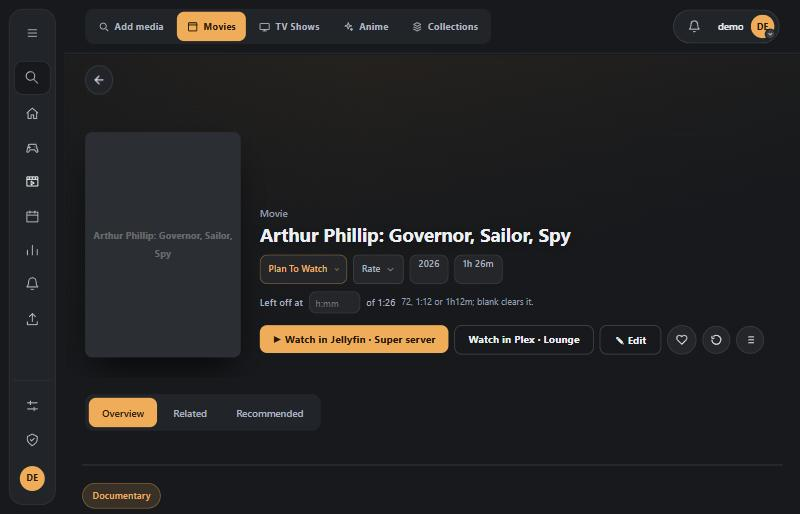
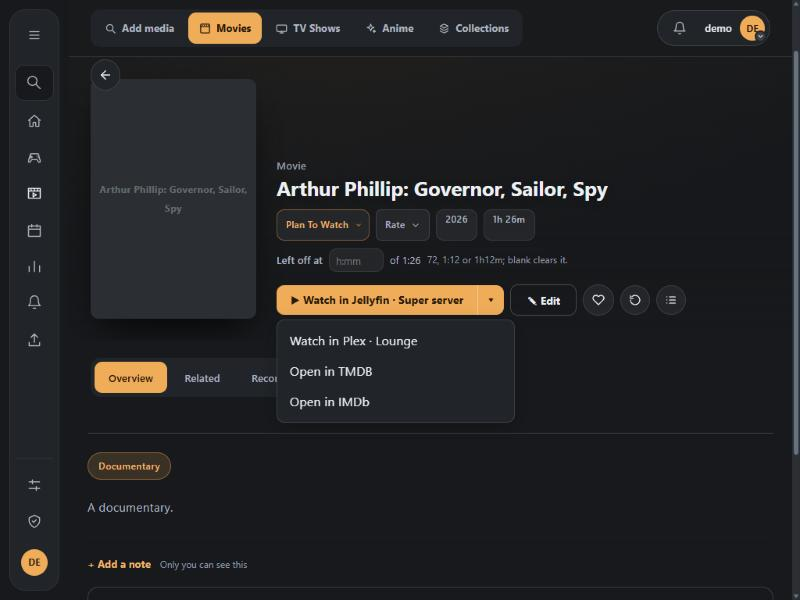
feat: list other watch sources and metadata-site links in a menu beside the watch button

diff --git a/src/frontend/src/components/MediaWatchLinks.vue b/src/frontend/src/components/MediaWatchLinks.vue
@@ -1,12 +1,32 @@
 <script setup lang="ts">
-import { ref, watch } from "vue";
+import { computed, onBeforeUnmount, ref, watch } from "vue";
 import type { MediaType } from "../services/mediaExtras";
 import { fetchWatchLinks, type WatchLink } from "../services/mediaWatchLinks";
+import { providerLinks } from "../utils/mediaProviderLinks";
 
-const props = defineProps<{ mediaType: MediaType; mediaId: string }>();
+const props = defineProps<{
+  mediaType: MediaType;
+  mediaId: string;
+  providerIds?: Record<string, string>;
+}>();
 const emit = defineEmits<{ present: [value: boolean] }>();
 
-const links = ref<WatchLink[]>([]);
+const watchSources = ref<WatchLink[]>([]);
+const sites = computed(() => providerLinks(props.mediaType, props.providerIds));
+// The main button is the first place the title can be watched; everything else is in the menu.
+const primary = computed(() => watchSources.value[0] ?? null);
+const menuItems = computed(() => [
+  ...watchSources.value.slice(1).map((link) => ({
+    id: `watch:${link.id}`,
+    text: `Watch in ${link.label}`,
+    url: link.url,
+  })),
+  ...sites.value.map((link) => ({
+    id: `open:${link.id}`,
+    text: `Open in ${link.label}`,
+    url: link.url,
+  })),
+]);
 
 // The links were saved by the library sync, so this is one cheap read; a failure just means no button.
 watch(
@@ -15,62 +35,179 @@ watch(
     const request = new AbortController();
     onCleanup(() => request.abort());
     try {
-      links.value = await fetchWatchLinks(
+      watchSources.value = await fetchWatchLinks(
         props.mediaType,
         props.mediaId,
         request.signal,
       );
     } catch {
-      links.value = [];
+      watchSources.value = [];
     }
-    emit("present", links.value.length > 0);
+    emit("present", watchSources.value.length > 0);
   },
   { immediate: true },
 );
+
+const menuOpen = ref(false);
+const root = ref<HTMLElement | null>(null);
+const menu = ref<HTMLElement | null>(null);
+const menuStyle = ref<Record<string, string>>({});
+
+// The menu is rendered in the page body so the hero banner cannot clip it.
+function placeMenu() {
+  const box = root.value?.getBoundingClientRect();
+  if (!box) return;
+  menuStyle.value = {
+    top: `${box.bottom + 6}px`,
+    left: `${box.left}px`,
+    minWidth: `${box.width}px`,
+  };
+}
+
+function close() {
+  menuOpen.value = false;
+}
+
+function closeOnOutside(event: Event) {
+  const inside = (node: HTMLElement | null) =>
+    node?.contains(event.target as Node) ?? false;
+  if (!inside(root.value) && !inside(menu.value)) close();
+}
+
+function closeOnEscape(event: Event) {
+  if ((event as KeyboardEvent).key === "Escape") close();
+}
+
+function listen(add: boolean) {
+  const method = add ? "addEventListener" : "removeEventListener";
+  document[method]("click", closeOnOutside);
+  document[method]("keydown", closeOnEscape);
+  window[method]("resize", close);
+  window[method]("scroll", close, true);
+}
+
+watch(menuOpen, (open) => {
+  if (open) placeMenu();
+  listen(open);
+});
+onBeforeUnmount(() => listen(false));
 </script>
 
 <template>
-  <div v-if="links.length" class="watch-links">
+  <div v-if="primary || menuItems.length" ref="root" class="watch-links">
     <a
-      v-for="(link, index) in links"
-      :key="link.id"
-      :class="index === 0 ? 'watch-main' : 'watch-other'"
-      :href="link.url"
+      v-if="primary"
+      class="watch-main"
+      :class="{ 'has-menu': menuItems.length }"
+      :href="primary.url"
       target="_blank"
       rel="noopener noreferrer"
     >
-      {{ index === 0 ? "▶ " : "" }}Watch in {{ link.label }}
+      ▶ Watch in {{ primary.label }}
     </a>
+    <button
+      v-if="menuItems.length"
+      type="button"
+      class="watch-toggle"
+      :class="{ alone: !primary }"
+      aria-haspopup="menu"
+      :aria-expanded="menuOpen"
+      :aria-label="primary ? 'More places to watch or open' : 'Open in'"
+      @click="menuOpen = !menuOpen"
+    >
+      {{ primary ? "▾" : "Open in ▾" }}
+    </button>
+    <Teleport to="body">
+      <ul
+        v-if="menuOpen"
+        ref="menu"
+        class="watch-menu"
+        role="menu"
+        :style="menuStyle"
+      >
+        <li v-for="item in menuItems" :key="item.id" role="none">
+          <a
+            role="menuitem"
+            :href="item.url"
+            target="_blank"
+            rel="noopener noreferrer"
+            @click="close"
+            >{{ item.text }}</a
+          >
+        </li>
+      </ul>
+    </Teleport>
   </div>
 </template>
 
 <style scoped>
 .watch-links {
   display: inline-flex;
-  flex-wrap: wrap;
-  gap: 8px;
 }
 .watch-main,
-.watch-other {
+.watch-toggle {
   display: inline-flex;
   align-items: center;
   height: 38px;
-  padding: 0 18px;
-  border-radius: var(--ui-radius-control);
+  border: 0;
+  font: inherit;
   font-size: 0.86rem;
   font-weight: 700;
   text-decoration: none;
   white-space: nowrap;
-}
-.watch-main {
+  cursor: pointer;
   background: var(--ui-accent);
   color: var(--ui-on-accent);
 }
-.watch-other {
-  color: var(--ui-text);
-  border: 1px solid color-mix(in srgb, var(--ui-text) 22%, transparent);
+.watch-main {
+  padding: 0 18px;
+  border-radius: var(--ui-radius-control);
 }
-.watch-other:hover {
-  border-color: color-mix(in srgb, var(--ui-accent) 55%, transparent);
+.watch-main.has-menu {
+  border-radius: var(--ui-radius-control) 0 0 var(--ui-radius-control);
+}
+.watch-toggle {
+  padding: 0 10px;
+  border-left: 1px solid rgb(255 255 255 / 35%);
+  border-radius: 0 var(--ui-radius-control) var(--ui-radius-control) 0;
+}
+.watch-toggle.alone {
+  padding: 0 16px;
+  border: 1px solid color-mix(in srgb, var(--ui-text) 22%, transparent);
+  border-radius: var(--ui-radius-control);
+  background: transparent;
+  color: var(--ui-text);
+}
+.watch-main:focus-visible,
+.watch-toggle:focus-visible {
+  outline: 2px solid currentColor;
+  outline-offset: 2px;
+}
+</style>
+
+<style>
+.watch-menu {
+  position: fixed;
+  z-index: 1000;
+  margin: 0;
+  padding: 6px;
+  list-style: none;
+  background: var(--ui-surface, #fff);
+  color: var(--ui-text, #1f1f1f);
+  border: 1px solid color-mix(in srgb, var(--ui-text, #000) 15%, transparent);
+  border-radius: 10px;
+  box-shadow: 0 8px 24px rgb(0 0 0 / 18%);
+}
+.watch-menu a {
+  display: block;
+  padding: 8px 10px;
+  border-radius: 6px;
+  color: inherit;
+  text-decoration: none;
+  white-space: nowrap;
+}
+.watch-menu a:hover,
+.watch-menu a:focus-visible {
+  background: color-mix(in srgb, var(--ui-accent) 14%, transparent);
 }
 </style>

diff --git a/src/frontend/src/utils/mediaProviderLinks.ts b/src/frontend/src/utils/mediaProviderLinks.ts
@@ -1,0 +1,58 @@
+// Links to a title's page on the metadata sites the app already knows it by. Only identifiers
+// that match a strict shape become links, and only for the fixed hosts below.
+import type { MediaType } from "../services/mediaExtras";
+
+export interface ProviderLink {
+  id: string;
+  label: string;
+  url: string;
+}
+
+const NUMERIC = /^[0-9]{1,12}$/;
+const IMDB = /^tt[0-9]{5,12}$/;
+
+export function providerLinks(
+  mediaType: MediaType,
+  providerIds: Record<string, string> | undefined,
+): ProviderLink[] {
+  const ids = providerIds ?? {};
+  const value = (key: string) => (ids[key] ?? "").trim();
+  const links: ProviderLink[] = [];
+  const add = (id: string, label: string, url: string) =>
+    links.push({ id, label, url });
+
+  if (mediaType === "anime") {
+    const anilist = value("anilist");
+    if (NUMERIC.test(anilist))
+      add("anilist", "AniList", `https://anilist.co/anime/${anilist}`);
+    const mal = value("mal");
+    if (NUMERIC.test(mal))
+      add("mal", "MyAnimeList", `https://myanimelist.net/anime/${mal}`);
+    const kitsu = value("kitsu");
+    if (NUMERIC.test(kitsu))
+      add("kitsu", "Kitsu", `https://kitsu.app/anime/${kitsu}`);
+  }
+  if (mediaType === "tv") {
+    const tvmaze = value("tvmaze");
+    if (NUMERIC.test(tvmaze))
+      add("tvmaze", "TVmaze", `https://www.tvmaze.com/shows/${tvmaze}`);
+  }
+  // Anime keep separate TMDB identities for series and films.
+  const tmdbKind =
+    mediaType === "movie" ? "movie" : mediaType === "tv" ? "tv" : null;
+  const tmdb =
+    tmdbKind !== null
+      ? value("tmdb")
+      : value("tmdb.tv") || value("tmdb.movie") || "";
+  const animeKind = value("tmdb.tv") ? "tv" : "movie";
+  if (NUMERIC.test(tmdb))
+    add(
+      "tmdb",
+      "TMDB",
+      `https://www.themoviedb.org/${tmdbKind ?? animeKind}/${tmdb}`,
+    );
+  const imdb = value("imdb");
+  if (IMDB.test(imdb))
+    add("imdb", "IMDb", `https://www.imdb.com/title/${imdb}/`);
+  return links;
+}

diff --git a/src/frontend/src/tests/mediaProviderLinks.test.ts b/src/frontend/src/tests/mediaProviderLinks.test.ts
@@ -1,0 +1,40 @@
+import { describe, expect, it } from "vitest";
+import { providerLinks } from "../utils/mediaProviderLinks";
+
+describe("providerLinks", () => {
+  it("links an anime to the sites that know it", () => {
+    expect(
+      providerLinks("anime", {
+        anilist: "21",
+        mal: "21",
+        "tmdb.tv": "37854",
+        imdb: "tt0388629",
+      }).map((link) => link.url),
+    ).toEqual([
+      "https://anilist.co/anime/21",
+      "https://myanimelist.net/anime/21",
+      "https://www.themoviedb.org/tv/37854",
+      "https://www.imdb.com/title/tt0388629/",
+    ]);
+  });
+
+  it("picks the TMDB page by media type", () => {
+    expect(providerLinks("movie", { tmdb: "603" })[0].url).toBe(
+      "https://www.themoviedb.org/movie/603",
+    );
+    expect(providerLinks("tv", { tmdb: "1396", tvmaze: "169" })).toHaveLength(
+      2,
+    );
+  });
+
+  it("ignores identifiers that are not the expected shape", () => {
+    expect(
+      providerLinks("movie", {
+        tmdb: "603/../../x",
+        imdb: "javascript:alert(1)",
+        anilist: "21",
+      }),
+    ).toEqual([]);
+    expect(providerLinks("movie", undefined)).toEqual([]);
+  });
+});

diff --git a/src/frontend/src/components/MediaDetailHero.vue b/src/frontend/src/components/MediaDetailHero.vue
@@ -24,6 +24,8 @@ defineProps<{
   favorite: boolean;
   mediaType: "movie" | "tv" | "anime";
   mediaId: string;
+  // the title's identifiers on metadata sites, for "Open in" links
+  providerIds?: Record<string, string>;
   badges: { text: string; tone?: "good" }[];
   // priority and personal dates, shown the same way on every media page
   facts?: { label: string; value: string }[];
@@ -110,6 +112,7 @@ const emit = defineEmits<{
           <MediaWatchLinks
             :media-type="mediaType"
             :media-id="mediaId"
+            :provider-ids="providerIds"
             @present="hasSourceLink = $event"
           />
           <PluginExtensionSlot

diff --git a/src/frontend/src/views/MovieDetail.vue b/src/frontend/src/views/MovieDetail.vue
@@ -514,6 +514,7 @@ async function onRatingChange(value: number | null) {
       :favorite="movie.favorite"
       media-type="movie"
       :media-id="movie.id"
+      :provider-ids="movie.providerIds"
       :facts="mediaTrackingFacts(movie)"
       :badges="[
         ...(releaseYear ? [{ text: releaseYear }] : []),

diff --git a/src/frontend/src/views/AnimeDetail.vue b/src/frontend/src/views/AnimeDetail.vue
@@ -995,6 +995,7 @@ async function onRatingChange(value: number | null) {
       :favorite="show.favorite"
       media-type="anime"
       :media-id="show.id"
+      :provider-ids="show.providerIds"
       :facts="mediaTrackingFacts(show)"
       :badges="[
         ...(firstAirYear ? [{ text: firstAirYear }] : []),

diff --git a/src/frontend/src/views/TVShowDetail.vue b/src/frontend/src/views/TVShowDetail.vue
@@ -704,6 +704,7 @@ async function onRatingChange(value: number | null) {
       :favorite="show.favorite"
       media-type="tv"
       :media-id="show.id"
+      :provider-ids="show.providerIds"
       :facts="mediaTrackingFacts(show)"
       :badges="[
         ...(firstAirYear ? [{ text: firstAirYear }] : []),

diff --git a/wiki/docs/development/plugin-api-v1.md b/wiki/docs/development/plugin-api-v1.md
@@ -276,7 +276,7 @@ media page can offer "Watch in …" from what the last sync recorded, with no li
 source that reports `available: false` stops being offered, and a sync that omits `watch_url`
 clears it.
 
-![Watch in Jellyfin and Plex beside Edit on a movie page](../assets/media-watch-links/watch-links.jpg)
+![The Watch button with other sources and Open in links in its menu](../assets/media-watch-links/watch-links.jpg)
 Once accepted, the host retains the provider link across renames and replays.
 
 `metadata` permits at most 32 JSON keys and 64 KiB. Supported native fields include
